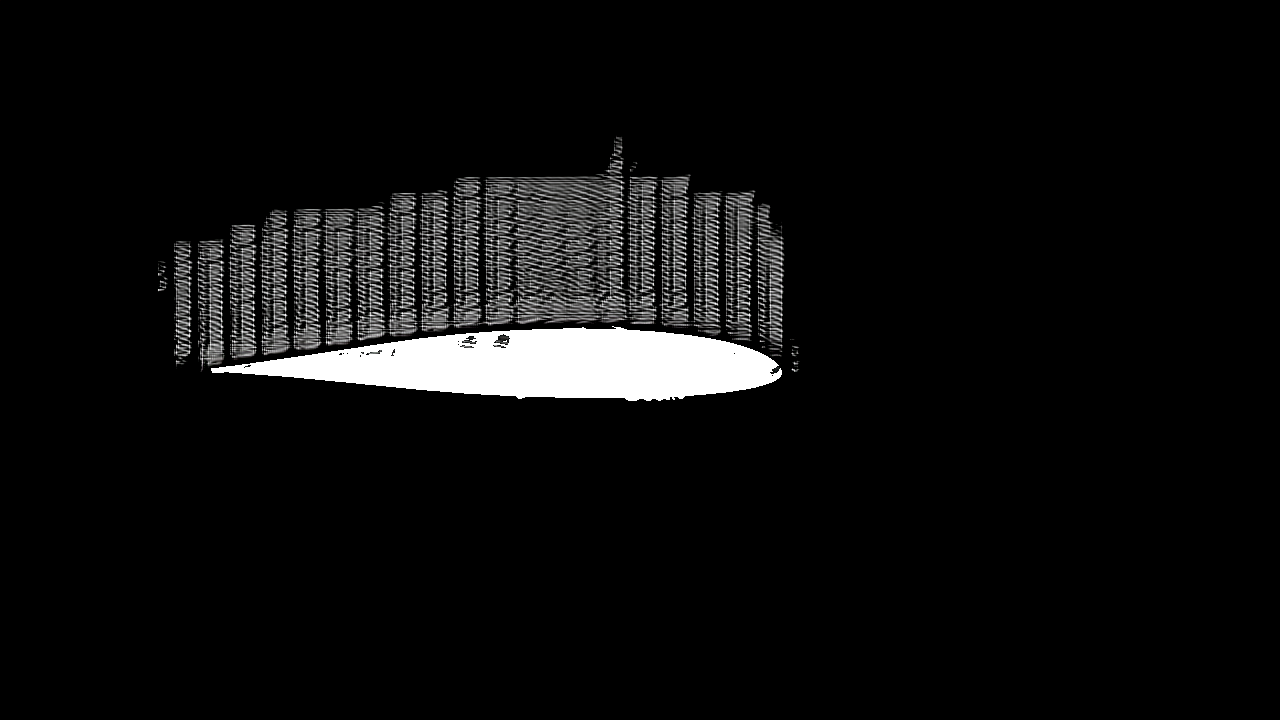
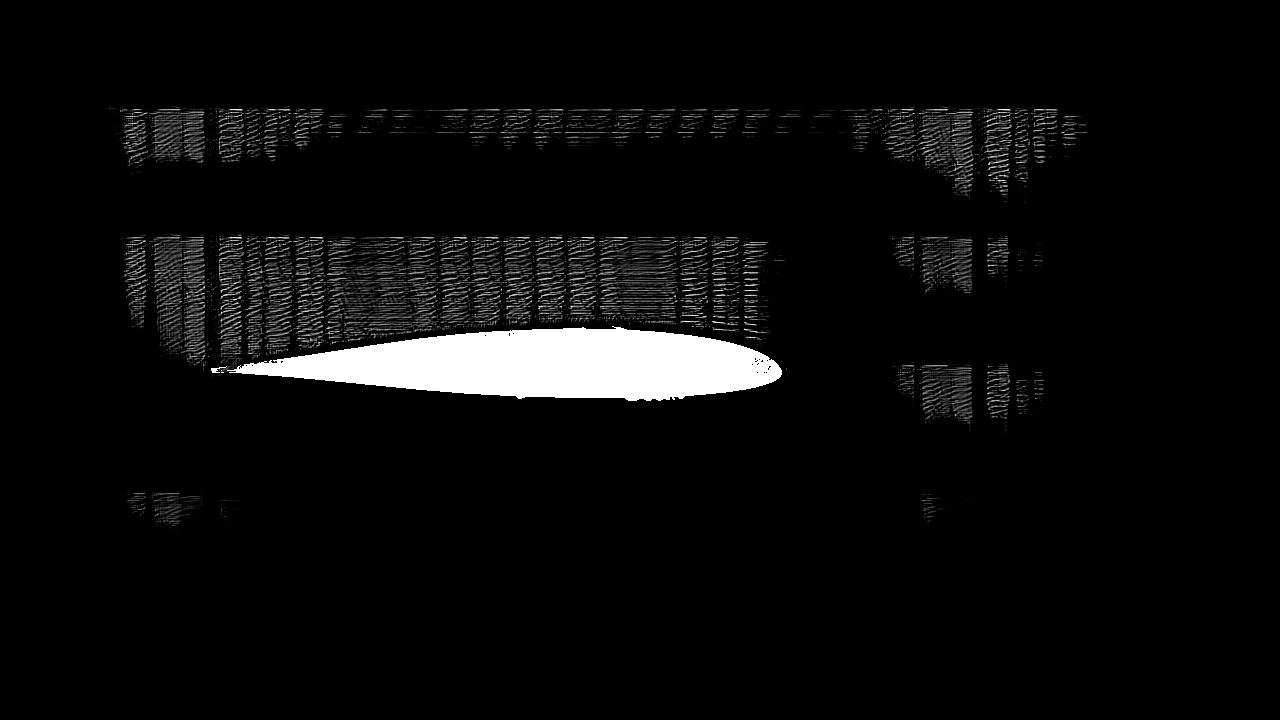
gradient loss

diff --git a/src/train_pix2pix_turbo.py b/src/train_pix2pix_turbo.py
@@ -24,7 +24,31 @@ from cleanfid.fid import get_folder_features, build_feature_extractor, fid_from_
 from pix2pix_turbo import Pix2Pix_Turbo
 from my_utils.training_utils import parse_args_paired_training, PairedDataset
 
+def sobel_filter(images):
+    """
+    Applies a Sobel filter to a batch of images to detect edges.
+    Args:
+        images (torch.Tensor): A batch of images of shape (B, C, H, W).
+    Returns:
+        torch.Tensor: The magnitude of the gradients.
+    """
+    # Convert to grayscale for gradient calculation
+    if images.shape[1] > 1:
+        images_gray = transforms.Grayscale()(images)
+    else:
+        images_gray = images
 
+    # Define Sobel filters
+    sobel_x = torch.tensor([[-1, 0, 1], [-2, 0, 2], [-1, 0, 1]], dtype=torch.float32, device=images.device).view(1, 1, 3, 3)
+    sobel_y = torch.tensor([[-1, -2, -1], [0, 0, 0], [1, 2, 1]], dtype=torch.float32, device=images.device).view(1, 1, 3, 3)
+
+    # Apply filters
+    grad_x = F.conv2d(images_gray, sobel_x, padding=1)
+    grad_y = F.conv2d(images_gray, sobel_y, padding=1)
+
+    # Calculate gradient magnitude
+    grad_magnitude = torch.sqrt(grad_x**2 + grad_y**2)
+    return grad_magnitude
 def main(args):
     accelerator = Accelerator(
         gradient_accumulation_steps=args.gradient_accumulation_steps,
@@ -236,6 +260,15 @@ def main(args):
                 
                 total_gen_loss = loss_l2 + loss_lpips
 
+                if args.lambda_gradient > 0:
+                    # Calculate gradients of the predicted and target images
+                    pred_grads = sobel_filter(x_tgt_pred)
+                    target_grads = sobel_filter(x_tgt)
+                    
+                    # Calculate the L1 loss between the gradients, applying the mask
+                    loss_gradient = F.l1_loss(pred_grads * airfoil_mask, target_grads * airfoil_mask) * args.lambda_gradient
+                    total_gen_loss += loss_gradient
+                    
                 if args.lambda_clipsim > 0:
                     x_tgt_pred_renorm = t_clip_renorm(x_tgt_pred * 0.5 + 0.5)
                     x_tgt_pred_renorm = F.interpolate(x_tgt_pred_renorm, (224, 224), mode="bilinear", align_corners=False)

diff --git a/src/my_utils/training_utils.py b/src/my_utils/training_utils.py
@@ -65,6 +65,8 @@ def parse_args_paired_training(input_args=None):
     
     
     # --- THIS IS THE CORRECT LOCATION FOR THE NEW ARGUMENT ---
+    parser.add_argument("--lambda_gradient", default=0.0, type=float, 
+                        help="Weight for the gradient (Sobel) loss to enforce sharpness.")
     parser.add_argument("--resume_from_checkpoint", type=str, default=None,
                         help="Path to a checkpoint to resume training from.")
     parser.add_argument("--gan_warmup_steps", type=int, default=1000, 
